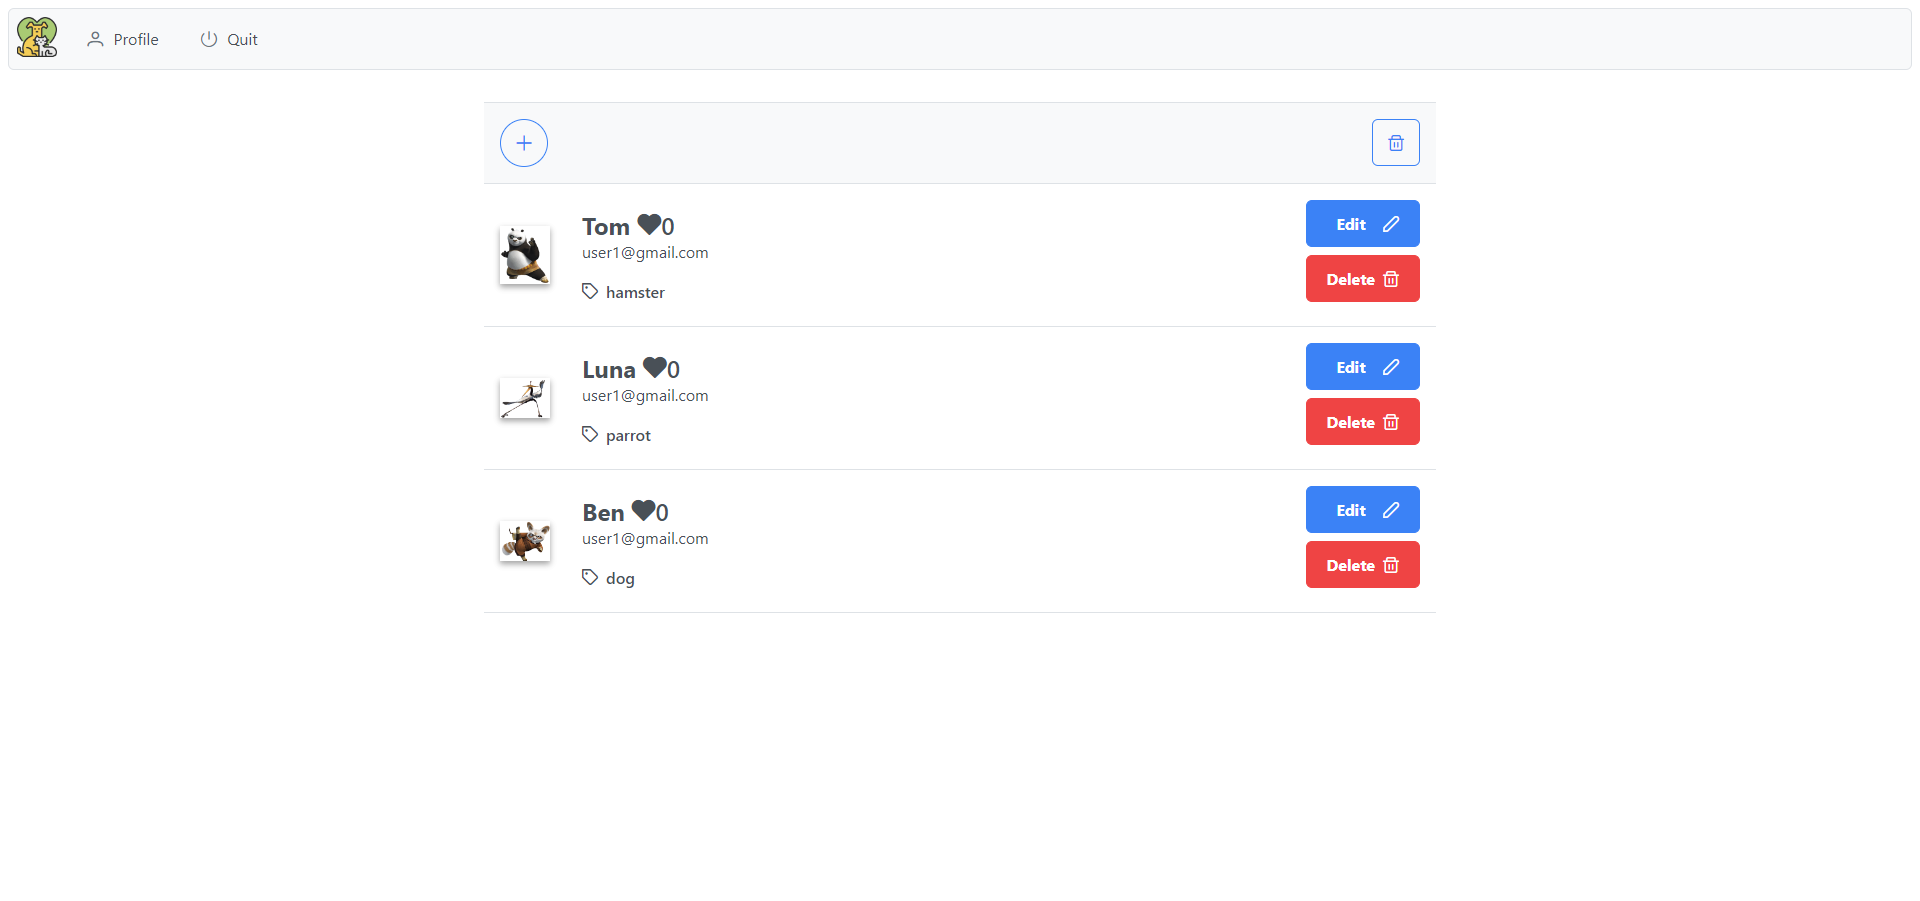
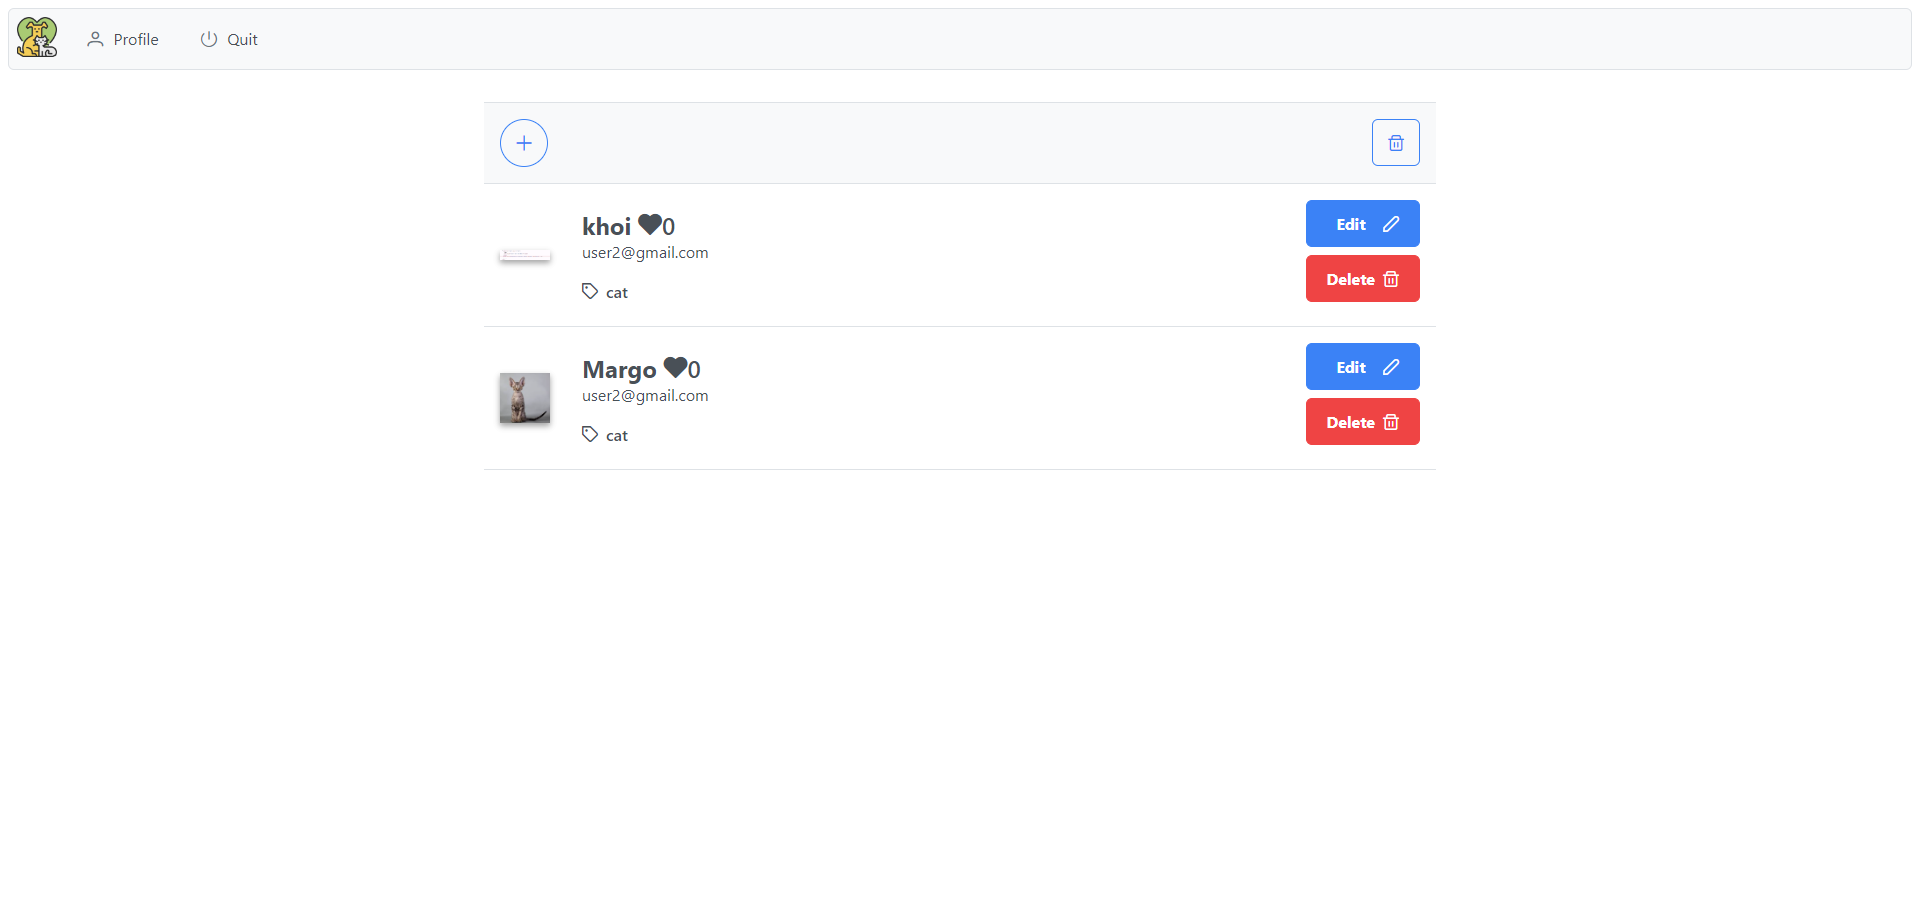
Added new tests and config file

diff --git a/pages/locators.py b/pages/locators.py
@@ -4,10 +4,12 @@ from selenium.webdriver.common.by import By
 class MainPageLocators:
     LOGIN_LINK = (By.XPATH, '//*[@id="app"]/header[1]/div[1]/ul[1]/li[1]/a[1]/span[1]')
     DDOWN_FIELD = (By.ID, 'typesSelector')
-    FILTER_CAT = (By.ID, 'pv_id_2_1')
+    FILTER_CAT = (By.XPATH, '//*[@id="typesSelector"]')
     FILTER_NAME = (By.ID, 'petName')
     DETAILS_BTN = (By.CSS_SELECTOR, '.col-12:nth-child(1) .p-button-label')
     THUMBS_UP_BTN = (By.CSS_SELECTOR, '.col-12:nth-child(1) .product-grid-item-bottom .pi')
+    COMMENTS_FIELD = (By.XPATH, "//div[@id='app']/main/div[2]/div/div/div[3]/form/div/div/div[2]/div")
+    SAVE_COMMENT_BTN = (By.XPATH, "//div[@id='app']/main/div[2]/div/div/div[3]/form/div/button/span[2]")
 
 
 class LoginPageLocators:
@@ -18,28 +20,21 @@ class LoginPageLocators:
 
 class ProfilePageLocators:
     CREATE_CAT = (By.CLASS_NAME, 'pi-plus')
-    INPUT_PET_NAME = (By.XPATH, "//*[@id='name']")
+    INPUT_PET_NAME = (By.ID, 'name')
     DDOWN_OPEN = (By.ID, 'typeSelector')
-    CHOOSE_PET_TYPE = (By.XPATH, '//*[@id="pv_id_4_1"]')
+    CHOOSE_PET_TYPE = (By.XPATH, "//li[@aria-label='cat']")
     CLICK_ON_SUBMIT_BUTTON = (By.XPATH, '//*[@id="app"]/main/div/div/form/div/div[2]/div[3]/button[1]')
     CLICK_ON_CHOOSE_AVA_BTN = (By.XPATH, '//*[@id="app"]/main/div/div/div[2]/div[2]/div/span/span[2]')
     CHOOSE_PIK = (By.XPATH, '//*[@id="app"]/main/div/div/div[2]/div[2]/div/span/input')
     CLICK_ON_UPLOADED_BTN = (By.XPATH, '//div[@id="app"]/main/div/div/div[2]/div[2]/div/span')
 
-    CLICK_ON_EDIT_BTN = (By.CSS_SELECTOR, '.col-12:nth-child(1) .p-button:nth-child(1) > .p-button-label')
-    INPUT_NEW_PET_NAME = (By.XPATH, '//*[@id="name"]')
-    DDOWN_TYPE_OPEN = (By.ID, 'typeSelector')
-    CHOOSE_NEW_PET_TYPE = (By.XPATH, '//*[@id="pv_id_4_3"]')
-    SAVE_BTN = (By.CSS_SELECTOR, '.p-button-success > .p-button-label')
-
-    # DELETE_BTN = (By.CSS_SELECTOR, '.col-12:nth-child(4) .p-button-danger > .p-button-label')
     DELETE_BTN = (By.XPATH, "//div[@id='app']/main/div/div/div[2]/div/div/div/div[2]/button[2]/span[2]")
     DELETE_YES = (By.CSS_SELECTOR, '.p-confirm-popup-accept > .p-button-label')
 
     DELETE_ACC_BTN = (By.CSS_SELECTOR, '.p-button-icon-only > .pi-trash')
     CONFIRM_DELETE_ACC_YES = (By.XPATH, '//div[3]/div[2]/button[2]/span')
 
-    QUIT_BTN = (By.XPATH, "//div[@id='app']/header/div/ul/li[2]/a/span[2]")
+    QUIT_BTN = (By.CSS_SELECTOR,".p-menuitem:nth-child(2) .p-menuitem-text")
 
 
 class RegistrationPageLocators:

diff --git a/tests/test_profile_page.py b/tests/test_profile_page.py
@@ -7,23 +7,12 @@ from pages.profile_page import ProfilePage
 
 @pytest.mark.functional
 def test_create_cat(auth_user, browser):
-    # browser = auth_user
     link = 'http://34.141.58.52:8080/#/profile'
     page = ProfilePage(browser, link)
     page.open()
     page.go_to_create_cat()
     time.sleep(5)
     browser.save_screenshot('create_new_pet.png')
-
-
-@pytest.mark.functional
-def test_edit_pet(auth_user, browser):
-    link = 'http://34.141.58.52:8080/#/profile'
-    page = ProfilePage(browser, link)
-    page.open()
-    page.go_to_edit_pet()
-    time.sleep(5)
-    browser.save_screenshot('edited_pet.png')
 
 
 @pytest.mark.functional
@@ -36,15 +25,17 @@ def test_delete_pet(auth_user, browser):
     browser.save_screenshot('deleted_pet.png')
 
 
-# def test_delete_account(auth_user, browser):
-#     link = 'http://34.141.58.52:8080/#/profile'
-#     page = ProfilePage(browser, link)
-#     page.open()
-#     page.go_to_delete_account()
-#     time.sleep(5)
-#     browser.save_screenshot('deleted_account.png')
+@pytest.mark.functional
+def test_delete_account(auth_user, browser):
+    link = 'http://34.141.58.52:8080/#/profile'
+    page = ProfilePage(browser, link)
+    page.open()
+    page.go_to_delete_account()
+    time.sleep(5)
+    browser.save_screenshot('deleted_account.png')
 
 
+@pytest.mark.functional
 def test_quit(auth_user, browser):
     browser = auth_user
     link = 'http://34.141.58.52:8080/#/profile'

diff --git a/pages/profile_page.py b/pages/profile_page.py
@@ -1,6 +1,7 @@
-from selenium.webdriver.common.by import By
+import time
 from .base_page import BasePage
 from .locators import ProfilePageLocators
+
 
 class ProfilePage(BasePage):
     def go_to_create_cat(self):
@@ -20,20 +21,6 @@ class ProfilePage(BasePage):
         choose_ava.send_keys(r'C:\Users\User\PycharmProjects\Selenium_UI_Pet\pictures\Cat.jpeg')
         add_ava = self.browser.find_element(*ProfilePageLocators.CLICK_ON_UPLOADED_BTN)
         add_ava.click()
-
-    def go_to_edit_pet(self):
-        click_on_edit_btn = self.browser.find_element(*ProfilePageLocators.CLICK_ON_EDIT_BTN)
-        click_on_edit_btn.click()
-        input_new_pet_name = self.browser.find_element(*ProfilePageLocators.INPUT_NEW_PET_NAME)
-        input_new_pet_name.click()
-        input_new_pet_name.clear()
-        input_new_pet_name.send_keys("Tom")
-        ddown_type_open = self.browser.find_element(*ProfilePageLocators.DDOWN_TYPE_OPEN)
-        ddown_type_open.click()
-        choose_new_pet_type = self.browser.find_element(*ProfilePageLocators.CHOOSE_NEW_PET_TYPE)
-        choose_new_pet_type.click()
-        click_on_save_btn = self.browser.find_element(*ProfilePageLocators.SAVE_BTN)
-        click_on_save_btn.click()
 
     def go_to_delete_pet(self):
         click_on_delete_btn = self.browser.find_element(*ProfilePageLocators.DELETE_BTN)

diff --git a/pages/main_page.py b/pages/main_page.py
@@ -1,5 +1,7 @@
 from selenium.webdriver import Keys
+
 from .base_page import BasePage
+
 from .locators import MainPageLocators
 
 
@@ -28,3 +30,12 @@ class MainPage(BasePage):
     def like_pet_card(self):
         click_on_thumbs_up_btn = self.browser.find_element(*MainPageLocators.THUMBS_UP_BTN)
         click_on_thumbs_up_btn.click()
+
+    def add_comment(self):
+        click_on_details_btn = self.browser.find_element(*MainPageLocators.DETAILS_BTN)
+        click_on_details_btn.click()
+        click_on_comments_field = self.browser.find_element(*MainPageLocators.COMMENTS_FIELD)
+        click_on_comments_field.click()
+        click_on_comments_field.send_keys('I love this breed of pet')
+        click_on_save_comment_btn = self.browser.find_element(*MainPageLocators.SAVE_COMMENT_BTN)
+        click_on_save_comment_btn.click()

diff --git a/pages/login_page.py b/pages/login_page.py
@@ -1,15 +1,16 @@
 from .base_page import BasePage
 from .locators import LoginPageLocators
+from config import EMAIL, PASSWORD
 
 
 class LoginPage(BasePage):
     def enter_email(self):
         login_email = self.browser.find_element(*LoginPageLocators.LOGIN_EMAIL)
-        login_email.send_keys("user1@gmail.com")
+        login_email.send_keys(EMAIL)
 
     def enter_pass(self):
         login_password = self.browser.find_element(*LoginPageLocators.LOGIN_PASS)
-        login_password.send_keys("123zxcv")
+        login_password.send_keys(PASSWORD)
 
     def login_btn(self):
         click_login_btn = self.browser.find_element(*LoginPageLocators.LOGIN_BTN)

diff --git a/tests/test_main_page.py b/tests/test_main_page.py
@@ -46,10 +46,20 @@ def test_show_pet_details(browser):
 
 
 @pytest.mark.regression
-def test_like_pet_card(browser):
+def test_like_pet_card(browser, auth_user):
     link = 'http://34.141.58.52:8080/#/'
     page = MainPage(browser, link)
     page.open()
     page.like_pet_card()
     time.sleep(5)
     browser.save_screenshot('result_like_pet_card.png')
+
+
+@pytest.mark.regression
+def test_add_comment(browser, auth_user):
+    link = 'http://34.141.58.52:8080/#/'
+    page = MainPage(browser, link)
+    page.open()
+    page.like_pet_card()
+    time.sleep(5)
+    browser.save_screenshot('result_add_comment.png')

diff --git a/conftest.py b/conftest.py
@@ -5,7 +5,7 @@ from pages.login_page import LoginPage
 
 @pytest.fixture(scope='session')
 def browser():
-    browser = webdriver.Chrome()  # до yield открывается браузер
+    browser = webdriver.Chrome()
     browser.maximize_window()
     yield browser
     browser.quit()
@@ -21,4 +21,6 @@ def auth_user(browser):
     page.login_btn()
     yield browser
     browser.quit()
+
+
 

diff --git a/config.py b/config.py
@@ -1,0 +1,2 @@
+EMAIL = 'user2@gmail.com'
+PASSWORD = '123zxcv'
